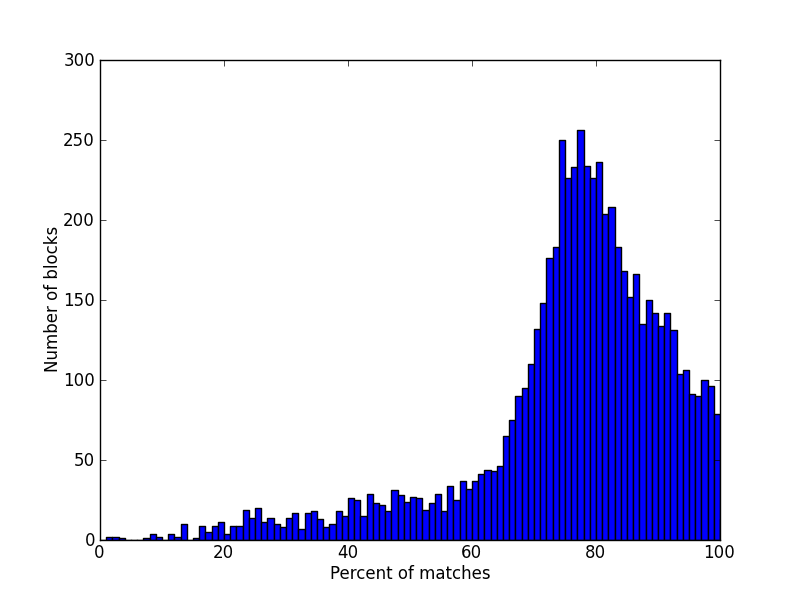
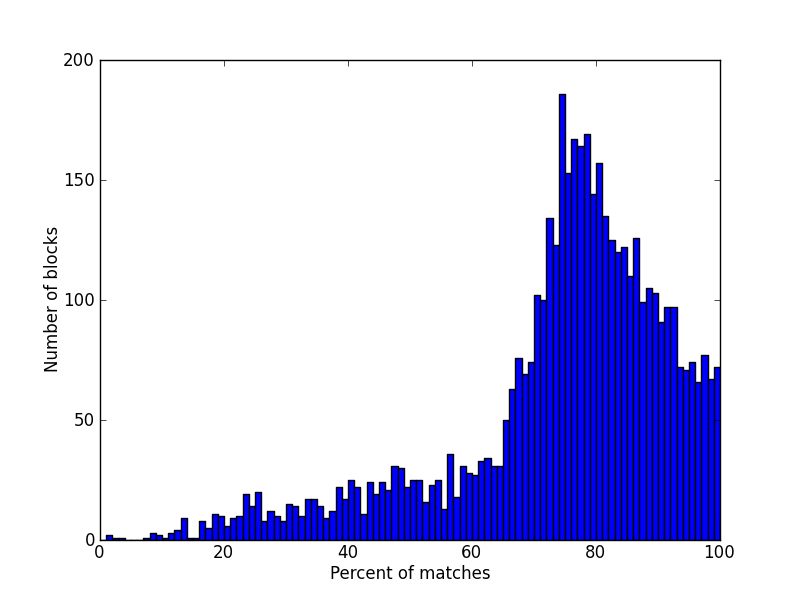
Presentation is updated

diff --git a/presentation/June4/SyntenyBuilder.tex b/presentation/June4/SyntenyBuilder.tex
@@ -206,7 +206,7 @@ Stage number & \(K\) & \(\delta\) \\
 \item Minimum length of the block is \(1000 \, bp\)
 \item Largest block found has length \(\sim 95 \, 000 \, bp\)
 \item We tried to verify blocks by aligning instances of the same block
-\item At least \(74 \, \%\) of blocks have \(70 \, \%\) of exact matches
+\item At least \(87 \, \%\) of blocks have \(50 \, \%\) of exact matches
 \end{itemize}
 \end{frame}
 
